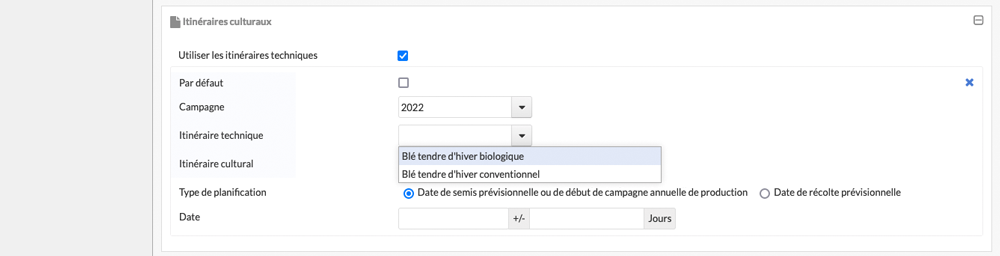
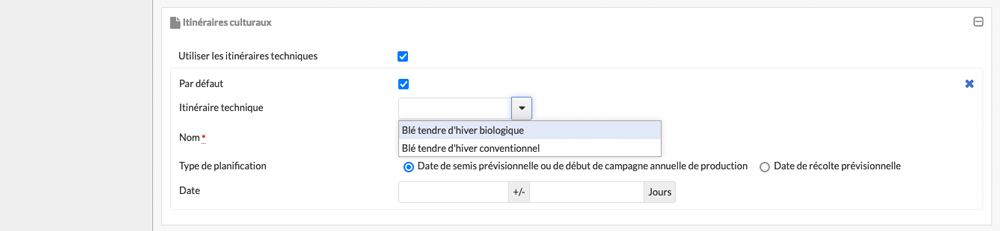
Màj itinéraires culturaux

diff --git a/content/fr/performance.html b/content/fr/performance.html
@@ -563,13 +563,17 @@
       </div>
       <div class="process-txt">
          <span class="titre-advice">Paramétrez l'itinéraire cultural</span>
-		 <p>Sélectionnez un itinéraire technique et un itinéraire cultural parmi les propositions filtrées des listes déroulantes &#40;seuls les itinéraires chargés dans l'application ou <a href="#itineraires" class="avoid-clicks">configurés</a> préalablement sont proposés&#41;.</p>
+		 <p>Sélectionnez l'itinéraire technique approprié parmi les propositions filtrées ou disponibles dans la liste déroulante &#40;seuls les itinéraires chargés dans l'application ou <a href="#itineraires" class="avoid-clicks">configurés</a> préalablement sont proposés&#41;.</p>
 		 <p class="max-img-process">
             <img src="../images/performance/activite-princip5.png" class="contour-img" alt="Activation itinéraire cultural" data-action="zoom" />
          </p>
-		 <p>Nommez l'itinéraire, puis sélectionnez un type de planification &#40;date de semis prévisionnelle/de début de campagne annuelle de production ou de récolte prévisionnelle&#41; et définissez une plage temporelle en jours par rapport à cette date d'intervention.</p>
+		 <p>Nommez l'itinéraire, puis sélectionnez un type de planification &#40;date de semis prévisionnelle/de début de campagne annuelle de production ou de récolte prévisionnelle&#41; et définissez une plage temporelle en jours par rapport à la date estimative de l'intervention.</p>
 		 <p class="max-img-process">
             <img src="../images/performance/activite-princip6.png" class="contour-img" alt="Activation itinéraire cultural" data-action="zoom" />
+         </p>
+		 <p>Notez que pour une activité pérenne &#40;vigne, etc.&#41;, la date de début de campagne annuelle de production est automatiquement préremplie dans le champ correspondant, avec la possibilité de la modifier&nbsp;:</p>
+		 <p class="max-img-process">
+            <img src="../images/performance/activite-princip7.png" class="contour-img" alt="Activation itinéraire cultural" data-action="zoom" />
          </p>
 		 <p>Cliquez sur <span class="btn-blue">Modifier</span> pour valider l'opération.</p>
       </div>
@@ -581,7 +585,7 @@
          <span class="titre-advice">Affichez l'activité modifiée</span>
          <p>Dans la vue détaillée de l'activité principale, la case cochée<img src="../images/commun/check-square-o.svg" alt="Case cochée" height="18" class="align-icone icone-marge-gauche icone-marge-droite">à droite du libellé "Utiliser les itinéraires techniques" confirme que la modification a bien été effectuée.</p>
          <p class="max-img-process">
-            <img src="../images/performance/activite-princip7.png" class="contour-img" alt="Activité modifiée" data-action="zoom" />
+            <img src="../images/performance/activite-princip8.png" class="contour-img" alt="Activité modifiée" data-action="zoom" />
          </p>
       </div>
       <h6>Guide de prise en main • Performance • Budgets prévisionnels</h6>

diff --git a/content/fr/demarrage.html b/content/fr/demarrage.html
@@ -20,7 +20,7 @@
       <p align="center" class="aerateur-haut"><img src="../images/accueil/introduction.png" alt="Gestion d'exploitation agricole | viticole"></p>
 	  <div id="docsearch" class="title-chapter pdf"></div>
       <h1 align="center" class="texte majuscule aerateur-haut aerateur-bas">Guide de prise en main</h1>
-      <p class="texte aerateur-haut aerateur-bas">Ce guide a pour but d'aider l'utilisateur à configurer correctement les applications développées par Ekylibre pour gérer son exploitation agricole ou viticole. Il rassemble les informations et les procédures essentielles à connaître pour maîtriser les fonctionnalités disponibles dans les différents modules de la solution. Cette documentation en ligne a été mise à jour le 11 octobre 2022.</p>
+      <p class="texte aerateur-haut aerateur-bas">Ce guide a pour but d'aider l'utilisateur à configurer correctement les applications développées par Ekylibre pour gérer son exploitation agricole ou viticole. Il rassemble les informations et les procédures essentielles à connaître pour maîtriser les fonctionnalités disponibles dans les différents modules de la solution. Cette documentation en ligne a été mise à jour le 13 octobre 2022.</p>
       <div class="divTableAccueil pdf" style="margin: 0 auto;">
          <div class="divTableBodyAccueil">
             <div class="divTableRowAccueil">
